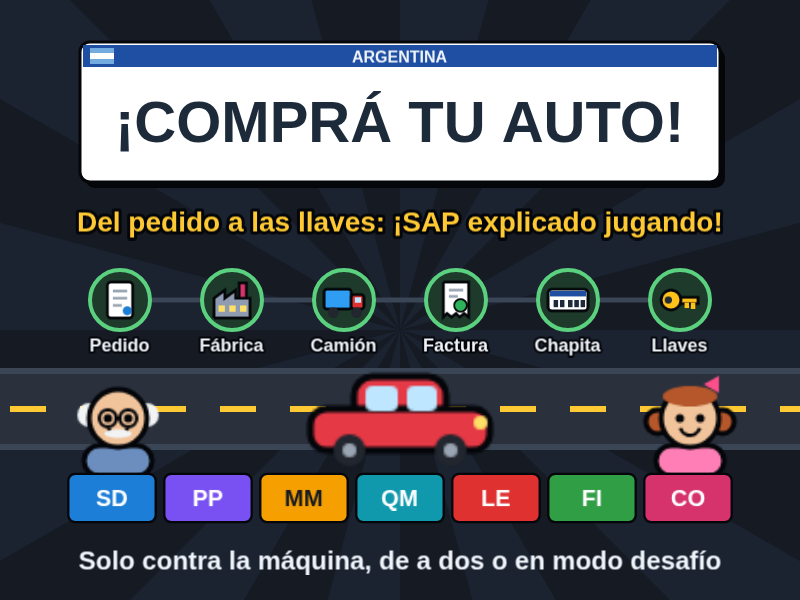
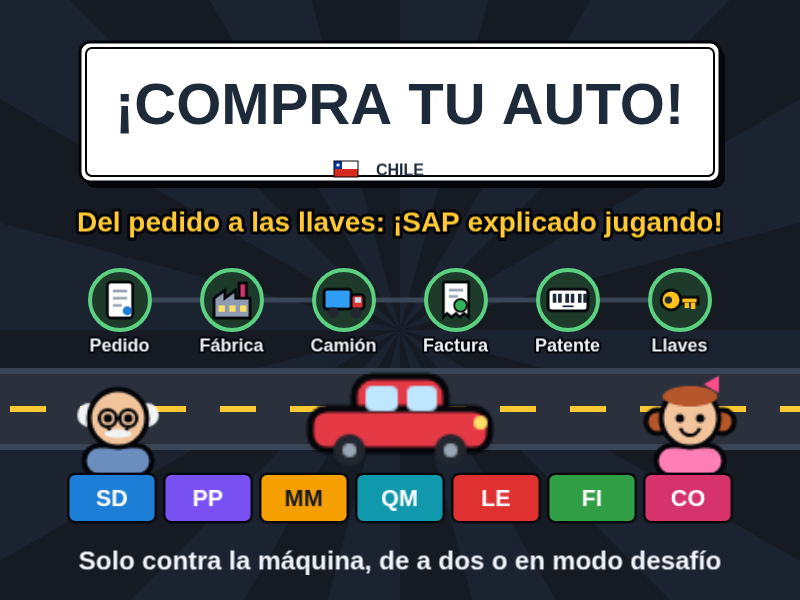
Arcade release v2

diff --git a/game.js b/game.js
@@ -1,6 +1,6 @@
-// ¡Comprá tu auto! — Platanus Hack 26 Arcade Challenge
-// Juego educativo: el circuito de SAP para comprar un auto en Argentina.
-// Pasos: Pedido, Fábrica, Camión, Factura, Chapita y Llaves.
+// ¡Compra tu auto! — Platanus Hack 26 Arcade Challenge
+// Juego educativo: el circuito de SAP para comprar un auto en Chile.
+// Pasos: Pedido, Fábrica, Camión, Factura, Patente y Llaves.
 // Módulos: SD, PP, MM, QM, LE, FI y CO. Para 1 o 2 jugadores.
 
 const W = 800, H = 600;
@@ -87,25 +87,25 @@ const MK = Object.keys(MOD);
 // b globo al terminar, o barra de SAP, k texto si se lo saltean, f lo que falta
 const STEPS = [
   { n: 'Pedido', x: 'VA01', t: 'Crear pedido de venta', d: 'Pedido 10{d}', s: 'GRABADO',
-    m: [['SD', 'Ventas está creando el pedido'], ['FI', 'Finanzas revisa si podés pagar']],
+    m: [['SD', 'Ventas está creando el pedido'], ['FI', 'Finanzas revisa si puedes pagar']],
     b: '¡Quiero un auto {c}! SD anotó mi pedido y FI dijo que puedo pagar.', o: 'Se grabó el Pedido 10{d}',
-    k: 'SAP no sabe qué auto querés. ¡Primero hacé el pedido!', f: 'el pedido' },
+    k: 'SAP no sabe qué auto quieres. ¡Primero haz el pedido!', f: 'el pedido' },
   { n: 'Fábrica', x: 'CO01', t: 'Crear orden de fabricación', d: 'Orden 20{d}', s: 'GRABADA',
     m: [['PP', 'Producción está fabricando tu auto'], ['MM', 'Compras trae las piezas'], ['QM', 'Calidad revisa la calidad'], ['CO', 'Costos calcula el costo']],
     b: '¡PP armó mi auto, MM trajo las piezas y QM lo revisó!', o: 'Orden 20{d} (del Pedido 10{d})',
     k: 'Tu auto todavía no existe. ¡Primero la fábrica lo tiene que armar!', f: 'la orden de fabricación' },
   { n: 'Camión', x: 'VL01N', t: 'Crear entrega', d: 'Entrega 80{d}', s: 'GRABADA',
     m: [['LE', 'Logística está preparando el camión'], ['MM', 'Compras saca el auto del depósito'], ['FI', 'Finanzas anota el movimiento']],
-    b: '¡LE subió mi auto al camión rumbo a la concesionaria!', o: 'Entrega 80{d} (del Pedido 10{d})',
-    k: 'Tu auto sigue en la fábrica. ¡Primero subilo al camión!', f: 'la entrega' },
+    b: '¡LE subió mi auto al camión rumbo a la automotora!', o: 'Entrega 80{d} (del Pedido 10{d})',
+    k: 'Tu auto sigue en la fábrica. ¡Primero súbelo al camión!', f: 'la entrega' },
   { n: 'Factura', x: 'VF01', t: 'Crear factura', d: 'Factura 90{d}', s: 'GRABADA',
     m: [['SD', 'Ventas está haciendo la factura'], ['FI', 'Finanzas anota la plata'], ['CO', 'Costos mide la ganancia']],
     b: 'SD hizo la factura y FI anotó cuánto debo pagar.', o: 'Factura 90{d} (de la Entrega 80{d})',
     k: 'Nadie sabe cuánto cuesta. ¡Primero la factura!', f: 'la factura' },
-  { n: 'Chapita', x: 'REGISTRO', t: 'Patentamiento', d: 'Patente {p}', s: 'ANOTADA',
-    m: [[0, 'Fuera de SAP: el Registro Automotor da la patente'], ['SD', 'Ventas anota la patente']],
-    b: '¡El Registro Automotor le dio chapita a mi auto: {p}!', o: 'Patente {p} anotada en SAP',
-    k: 'Sin chapita no podés salir a la calle. ¡Primero la chapita!', f: 'la chapita' },
+  { n: 'Patente', x: 'REGISTRO', t: 'Patentamiento', d: 'Patente {p}', s: 'ANOTADA',
+    m: [[0, 'Fuera de SAP: el Registro Civil da la patente'], ['SD', 'Ventas anota la patente']],
+    b: '¡El Registro Civil le dio patente a mi auto: {p}!', o: 'Patente {p} anotada en SAP',
+    k: 'Sin patente no puedes salir a la calle. ¡Primero la patente!', f: 'la patente' },
   { n: 'Llaves', x: 'VA03', t: 'Ver pedido', d: '¡Llaves entregadas!', s: '¡COMPLETO!',
     m: [['SD', 'Ventas revisa que el pedido esté completo'], ['CO', 'Costos calcula cuánto ganó la empresa']],
     b: '¡Las llaves! ¡El auto es mío!', o: 'Pedido 10{d}: ¡todo completo!', k: '', f: 'las llaves' },
@@ -129,11 +129,11 @@ const INC = [
 // Dificultad: [nombre, imprevistos, bloqueo por error (ms), pista en el camino, castigo por error (ms)]
 const DIF = [['FÁCIL', 1, 600, 1, 0], ['NORMAL', 3, 1200, 0, 0], ['DIFÍCIL', 4, 1200, 0, 2000]];
 // Rival de la máquina (modo solo y desafío): [nombre, segundos que tarda en llevarse el auto]
-const RIV = [['Concesionaria del barrio', 44], ['Agencia oficial', 54], ['Fábrica express', 58]];
+const RIV = [['Automotora del barrio', 44], ['Agencia oficial', 54], ['Fábrica express', 58]];
 const TIPS = [
-  'Cada papel nace del anterior: Pedido, Fábrica, Camión, Factura, Chapita y Llaves.',
+  'Cada papel nace del anterior: Pedido, Fábrica, Camión, Factura, Patente y Llaves.',
   'Plata: FI. Piezas: MM. Calidad: QM. Camión: LE. Costos: CO.',
-  '¡Sin errores! Ahora elegí más rápido: el orden es siempre el mismo.',
+  '¡Sin errores! Ahora elige más rápido: el orden es siempre el mismo.',
 ];
 const FACTS = [
   'SD viene de «Sales and Distribution»: ventas y distribución.',
@@ -145,11 +145,11 @@ const FACTS = [
   'CO viene de «Controlling»: el control de los costos.',
   'VA01 crea un pedido y VA03 lo muestra: en muchas transacciones, 01 crea, 02 modifica y 03 muestra.',
   'En SAP cada documento recuerda de cuál nació: eso se llama flujo de documentos.',
-  'La patente Mercosur de Argentina tiene 2 letras, 3 números y 2 letras.',
+  'Desde 2007, las patentes de Chile tienen 4 letras y 2 números.',
 ];
 const fact = () => '¿Sabías que…? ' + FACTS[rnd(FACTS.length)];
 
-const CH = [['Abuelo', 'El'], ['Abuela', 'La'], ['Nene', 'El'], ['Nena', 'La'], ['Gaucho', 'El'], ['Oficinista', 'La']];
+const CH = [['Abuelo', 'El'], ['Abuela', 'La'], ['Niño', 'El'], ['Niña', 'La'], ['Huaso', 'El'], ['Oficinista', 'La']];
 const COL = [['rojo', 0xe63946], ['celeste', 0x4fb3ff], ['verde', 0x2fb35a], ['amarillo', 0xffc61a]];
 
 // ---------- Utilidades ----------
@@ -158,8 +158,8 @@ const shuf = a => Phaser.Utils.Array.Shuffle(a);
 const fmt = t => (t / 1000).toFixed(1).replace('.', ',');
 const wait = (s, ms) => new Promise(r => s.time.delayedCall(ms, r));
 const plateTxt = () => {
-  const L = () => String.fromCharCode(65 + rnd(26));
-  return L() + L() + ' ' + Phaser.Math.Between(100, 999) + ' ' + L() + L();
+  const L = () => 'BCDFGHJKLPRSTVWXYZ'[rnd(18)];
+  return L() + L() + '·' + L() + L() + '·' + Phaser.Math.Between(10, 99);
 };
 const who = p => CH[p.ch][1] + ' ' + CH[p.ch][0];
 
@@ -175,10 +175,11 @@ function plate(s, x, y, w, h, txt, z) {
   g.fillStyle(LN).fillRoundedRect(-w / 2 + 5, -h / 2 + 6, w, h, 10)
     .fillStyle(0xffffff).fillRoundedRect(-w / 2, -h / 2, w, h, 10)
     .lineStyle(3, LN).strokeRoundedRect(-w / 2, -h / 2, w, h, 10)
-    .fillStyle(BLUE).fillRect(-w / 2 + 3, -h / 2 + 3, w - 6, 22)
-    .fillStyle(0x74acdf).fillRect(-w / 2 + 10, -h / 2 + 6, 24, 16)
-    .fillStyle(0xffffff).fillRect(-w / 2 + 10, -h / 2 + 11, 24, 6);
-  c.add([g, T(s, 0, -h / 2 + 14, 'ARGENTINA', 16), T(s, 0, 11, txt, z, '#1c2a3a')]);
+    .lineStyle(2, LN).strokeRoundedRect(-w / 2 + 6, -h / 2 + 6, w - 12, h - 12, 6);
+  const fy = h / 2 - 21;
+  g.fillStyle(0xd52b1e).fillRect(-66, fy + 8, 24, 8).fillStyle(0x0039a6).fillRect(-66, fy, 8, 8)
+    .fillStyle(0xffffff).fillCircle(-62, fy + 4, 1.6).lineStyle(1, LN).strokeRect(-66, fy, 24, 16);
+  c.add([g, T(s, 0, h / 2 - 13, 'CHILE', 16, '#1c2a3a'), T(s, 0, -7, txt, z, '#1c2a3a')]);
   return c;
 }
 function badge(s, x, y, m, w, h) {
@@ -312,8 +313,8 @@ class Boot extends Phaser.Scene {
       if (i < 2) g.strokeCircle(26, 31, 5).strokeCircle(38, 31, 5).lineBetween(31, 31, 33, 31);
       if (i == 0) g.fillStyle(0xf1f3f5).fillEllipse(32, 40, 16, 5);
       if (i == 3) g.fillStyle(0xff4f8b).fillTriangle(40, 11, 49, 6, 49, 16);
-      if (i == 4) g.fillStyle(0x3a2a1a).fillEllipse(32, 40, 16, 5).fillStyle(0x2b2b2b).fillRoundedRect(20, 2, 24, 13, 4)
-        .fillEllipse(32, 15, 50, 9).fillStyle(0xe03131).fillTriangle(24, 47, 40, 47, 32, 56);
+      if (i == 4) g.fillStyle(0x3a2a1a).fillEllipse(32, 40, 16, 5).fillStyle(0xd9b26a).fillRoundedRect(20, 2, 24, 13, 4)
+        .fillEllipse(32, 15, 50, 9).fillStyle(0x7a1f1f).fillRect(20, 10, 24, 3).fillStyle(0xe03131).fillTriangle(24, 47, 40, 47, 32, 56);
       if (i == 5) g.fillStyle(0xffffff).fillTriangle(25, 47, 39, 47, 32, 53).fillStyle(0xe03131).fillTriangle(30, 50, 34, 50, 32, 62);
       tex('c' + i, 64, 64);
     }
@@ -347,8 +348,9 @@ class Boot extends Phaser.Scene {
       .lineStyle(2, O).fillStyle(0x2fb35a).fillCircle(29, 30, 7).strokeCircle(29, 30, 7);
     tex('i3', 48, 48);
     g.lineStyle(3, O).fillStyle(0xffffff).fillRoundedRect(2, 12, 44, 24, 4).strokeRoundedRect(2, 12, 44, 24, 4)
-      .fillStyle(BLUE).fillRect(4, 14, 40, 6).fillStyle(0x1c2a3a);
-    for (let i = 0; i < 5; i++) g.fillRect(8 + i * 7 + (i > 1 ? 2 : 0), 24, 5, 8);
+      .fillStyle(0x1c2a3a);
+    for (let i = 0; i < 6; i++) g.fillRect(7 + i * 6 + (i >> 1) * 2, 17, 4, 10);
+    g.fillRect(18, 30, 12, 2);
     tex('i4', 48, 48);
     g.lineStyle(3, O).fillStyle(0xffc21a).fillRect(20, 21, 24, 7).strokeRect(20, 21, 24, 7)
       .fillRect(36, 27, 5, 7).fillRect(29, 27, 5, 6).fillCircle(14, 24, 11).strokeCircle(14, 24, 11)
@@ -386,7 +388,7 @@ class Title extends Phaser.Scene {
       this.tweens.add({ targets: o, x: -30, duration: 7000, onComplete: () => o.destroy() });
       this.tweens.add({ targets: o, y: 178, duration: 180, yoyo: true, repeat: 19 });
     } });
-    plate(this, W / 2, 64, 500, 100, '¡COMPRÁ TU AUTO!', 46).setDepth(2);
+    plate(this, W / 2, 64, 500, 100, '¡COMPRA TU AUTO!', 46).setDepth(2);
     const c = car(this, 120, 188, 0, .9), a = this.add.image(60, 180, 'c0').setScale(.8);
     this.tweens.add({ targets: [c, a], x: '+=560', duration: 5200, yoyo: true, repeat: -1, ease: 'Sine.inOut' });
     // Menú con el joystick
@@ -445,7 +447,7 @@ class Select extends Phaser.Scene {
     this.cameras.main.setBackgroundColor(BG).fadeIn(220, 4, 6, 10); this.lv = 0;
     const n = d.n, w = W / n;
     this.d = d;
-    T(this, W / 2, 30, d.m ? 'Modo desafío: 3 etapas, cada una más difícil' : `Elegí tu personaje y color · ${DIF[d.dif][0]}`, 26, '#ffc933');
+    T(this, W / 2, 30, d.m ? 'Modo desafío: 3 etapas, cada una más difícil' : `Elige tu personaje y color · ${DIF[d.dif][0]}`, 26, '#ffc933');
     this.S = [];
     for (let i = 0; i < n; i++) {
       const x = i * w, pc = i ? P2C : P1C, st = { ch: i ? 3 : 0, col: i ? 2 : 0, r: 0 }, g = this.add.graphics();
@@ -464,7 +466,7 @@ class Select extends Phaser.Scene {
       const cw = Math.min(62, (w - 40) / 6);
       for (let j = 0; j < 6; j++) st.th.push(this.add.image(x + w / 2 + (j - 2.5) * cw, 322, 'c' + j).setScale(cw / 70));
       st.nm = T(this, x + w / 2, 364, '', 18, '#ffc933');
-      T(this, x + w / 2, 404, '¿De qué color lo querés?  ↑ ↓', 18, '#c9d3df');
+      T(this, x + w / 2, 404, '¿De qué color lo quieres?  ↑ ↓', 18, '#c9d3df');
       st.hg = this.add.graphics();
       st.x = x; st.w = w; st.cw = cw;
       st.rd = T(this, x + w / 2, 528, '', 20, '#5bd17f');
@@ -731,14 +733,14 @@ class Panel {
     for (let i = 0; i < 6; i++) {
       const S = STEPS[i];
       this.cs = i;
-      this.az('¿Qué sigue?', 'Elegí con el joystick'); this.bar('', this.wide ? 'Esperando el próximo paso…' : 'Esperando…');
+      this.az('¿Qué sigue?', 'Elige con el joystick'); this.bar('', this.wide ? 'Esperando el próximo paso…' : 'Esperando…');
       const o = shuf([i, ...shuf([0, 1, 2, 3, 4, 5].filter(j => j != i)).slice(0, 3)]);
       if (s.D[3]) this.hint(i);
       await this.choose(o.map(j => ({ s: j })), o.indexOf(i), it => {
         const j = it.s;
         this.es++;
         if (j > i) { this.say(`¿${STEPS[j].n}? ¡Todavía no! ${S.k}`, 3); this.status('Error: falta ' + S.f, ER); }
-        else { this.say('¡Eso ya está hecho! Mirá tu camino: ¿qué sigue?', 3); this.status(this.F(STEPS[j].d) + ' ya existe', WA); }
+        else { this.say('¡Eso ya está hecho! Mira tu camino: ¿qué sigue?', 3); this.status(this.F(STEPS[j].d) + ' ya existe', WA); }
         s.r(`¡${J} se equivocó de paso!`);
       });
       await this.z(280 * this.sp);
@@ -777,7 +779,7 @@ class Panel {
       // Sello perfecto: A justo cuando el aro toca el sello
       if (i < 5) {
         this.stp = s.time.now; this.sealT.setColor('#1d8644');
-        this.a2.setText('¡Apretá A cuando el aro toque el sello!').setY(this.ay + 44);
+        this.a2.setText('¡Aprieta A cuando el aro toque el sello!').setY(this.ay + 44);
         s.tweens.add({ targets: this.ring.setVisible(true).setAlpha(1), radius: { from: 72, to: 16 }, duration: 600, onComplete: () => this.ring.setVisible(false) });
       }
       snd('stamp'); s.prog(this);
@@ -848,7 +850,7 @@ class Play extends Phaser.Scene {
       this.top.setX(14).setOrigin(0, .5).setFontSize(16).setText(this.def);
     }
     if (d.demo) {
-      const b = T(this, W / 2, 140, 'DEMO · Apretá START para jugar', 24, '#ffc933', { stroke: '#04060a', strokeThickness: 6 }).setDepth(9);
+      const b = T(this, W / 2, 140, 'DEMO · Aprieta START para jugar', 24, '#ffc933', { stroke: '#04060a', strokeThickness: 6 }).setDepth(9);
       this.tweens.add({ targets: b, alpha: .3, duration: 600, yoyo: true, repeat: -1 });
     }
     this.big = T(this, W / 2, 300, '', 120, '#ffc933', { stroke: '#04060a', strokeThickness: 12 }).setDepth(9);
@@ -934,10 +936,10 @@ class Play extends Phaser.Scene {
     }
     for (let i = 0; i < this.n; i++) {
       const P = `P${i + 1}_`, p = this.P[i];
-      if (btnA(P)) { if (p.stp) p.stamp(); else if (p.pick) { p.a2.setText('¡Usá el joystick! ← ↓ ↑ →'); snd('tick'); } }
+      if (btnA(P)) { if (p.stp) p.stamp(); else if (p.pick) { p.a2.setText('¡Usa el joystick! ← ↓ ↑ →'); snd('tick'); } }
       if (btnB(P)) {
         if (this.quit == P) return go(this, 'Title');
-        this.quit = P; this.rel(`¿J${i + 1} quiere salir al inicio? Apretá B otra vez`);
+        this.quit = P; this.rel(`¿J${i + 1} quiere salir al inicio? Aprieta B otra vez`);
         this.time.delayedCall(2000, () => this.quit = 0);
       }
     }
@@ -961,7 +963,7 @@ class Result extends Phaser.Scene {
     // Nuevo fantasma: la partida suelta más rápida de esta dificultad
     if (n < 2 && !lost && !d.m && P.sp.length == 6 && (!GH[lv] || P.t < GH[lv][5])) { GH[lv] = P.sp; sSet(GKEY, GH); }
     if (best > BEST) { BEST = best; sSet(RKEY, BEST); }
-    // Columna izquierda: título, auto, chapita y puntaje
+    // Columna izquierda: título, auto, patente y puntaje
     N(lost ? (d.m ? `Llegaste a la etapa ${d.st + 1}/3` : '¡El rival ganó!') :
       d.m ? (d.st < 2 ? `¡Etapa ${d.st + 1} superada!` : '¡Ganaste el desafío!') :
       n > 1 ? `¡Ganó el Jugador ${d.w + 1}!` : '¡El auto es tuyo!', 30, 28, lost ? '#ff6b6b' : '#ffc933');
@@ -978,15 +980,15 @@ class Result extends Phaser.Scene {
     N(lost ? `${who(P)} hizo ${P.k} de 6 pasos  ${'●'.repeat(P.k)}${'○'.repeat(6 - P.k)}` :
       `${who(P)} se llevó su auto ${COL[P.col][0]} en ${fmt(P.t)}\u00a0s.`, 270);
     if (d.m && lost) N(`Puntaje del desafío: ${this.acc}`, 296, 18, '#ffc933');
-    else N((e ? `Con ${e} error${e > 1 ? 'es' : ''}` : 'Sin errores') + ' · ' + ['Gurú del circuito SAP', `Consultor${CH[P.ch][1] == 'La' ? 'a' : ''} SAP en ascenso`, 'Pasante con ganas', 'Cliente que se hizo un lío'][e ? e < 3 ? 1 : e < 5 ? 2 : 3 : 0], 296, 17, e ? '#eef3f9' : '#5bd17f');
+    else N((e ? `Con ${e} error${e > 1 ? 'es' : ''}` : 'Sin errores') + ' · ' + ['Gurú del circuito SAP', `Consultor${CH[P.ch][1] == 'La' ? 'a' : ''} SAP en ascenso`, 'Practicante con ganas', 'Cliente que se enredó'][e ? e < 3 ? 1 : e < 5 ? 2 : 3 : 0], 296, 17, e ? '#eef3f9' : '#5bd17f');
     // Consejo para quien perdió
     const L = lost ? P : n > 1 ? d.pl[1 - d.w] : 0;
-    if (n < 2 && !lost && d.rv) N(`¡Le ganaste a ${RIV[lv][0]} por ${fmt(d.rv - P.t)}\u00a0s!`, 322, 16, '#5bd17f');
+    if (n < 2 && !lost && d.rv) N(`¡Le ganaste al rival por ${fmt(d.rv - P.t)}\u00a0s!`, 322, 16, '#5bd17f');
     if (n > 1) N(`J${2 - d.w} llegó a ${L.k} de 6 pasos  ${'●'.repeat(L.k)}${'○'.repeat(6 - L.k)}`, 322, 17, '#c9d3df');
     if (L) T(this, 200, 386, (n > 1 ? `Consejo J${2 - d.w}: ` : 'Consejo: ') + TIPS[L.es && L.es >= L.em ? 0 : L.em ? 1 : 2], 16, '#74c0fc', { fontStyle: 'normal', wordWrap: { width: 370 } });
     else {
-      const pt = N('', 330, 22, '#ffc933');
-      N(`Rapidez +${Math.round((100 - P.t / 1000) * 10 * [1, 1.5, 2][lv])}  ·  Errores −${e * 50}  ·  Racha +${P.top * 10}`, 358, 16, '#c9d3df');
+      const pt = N('', 348, 22, '#ffc933');
+      N(`Rapidez +${Math.round((100 - P.t / 1000) * 10 * [1, 1.5, 2][lv])}  ·  Errores −${e * 50}  ·  Racha +${P.top * 10}`, 376, 16, '#c9d3df');
       this.tweens.addCounter({ from: 0, to: pts, duration: 900, delay: 300, onUpdate: c => pt.setText(`Puntaje: ${Math.round(c.getValue())}` + (d.m ? `  ·  Desafío: ${this.acc}` : '')) });
     }
     if (n > 1) N(`Puntaje: ${pts}`, 348, 18, '#ffc933');
@@ -998,7 +1000,7 @@ class Result extends Phaser.Scene {
     if (this.q) {
       this.L = [0, 0, 0]; this.li = 0; this.left = 15;
       if (sc > (R[0] || { s: 0 }).s) this.cameras.main.flash(400);
-      this.lo.add(N(sc > (R[0] || { s: 0 }).s ? '¡Nuevo récord! Poné tus iniciales' : '¡Entraste al top 5! Poné tus iniciales', 420, 18, '#4aa3ef'));
+      this.lo.add(N(sc > (R[0] || { s: 0 }).s ? '¡Nuevo récord! Pon tus iniciales' : '¡Entraste al top 5! Pon tus iniciales', 420, 18, '#4aa3ef'));
       this.lg = this.add.graphics(); this.lo.add(this.lg);
       this.lt = [0, 1, 2].map(i => { const t = T(this, 150 + i * 50, 470, 'A', 30, '#151a23'); this.lo.add(t); return t; });
       this.lo.add(N('Joystick ↑ ↓: letra   ·   A: confirmar', 516, 16, '#c9d3df'));
